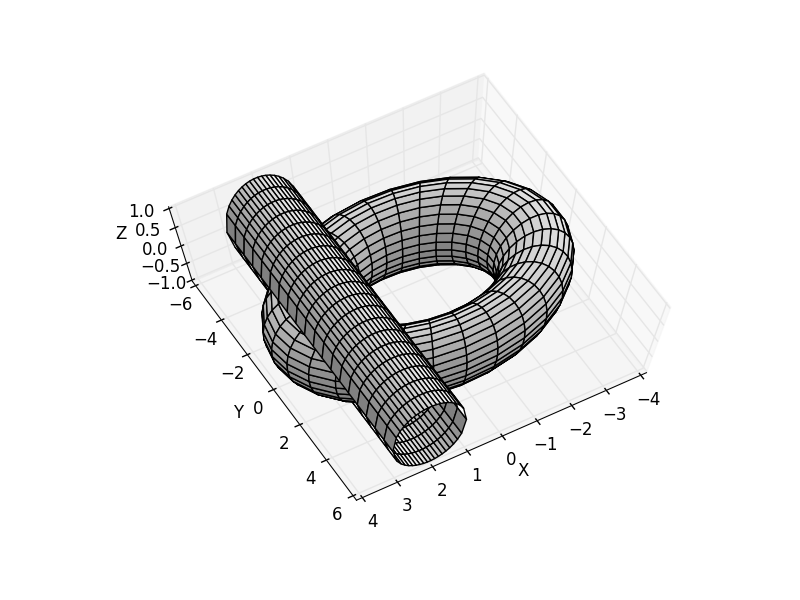
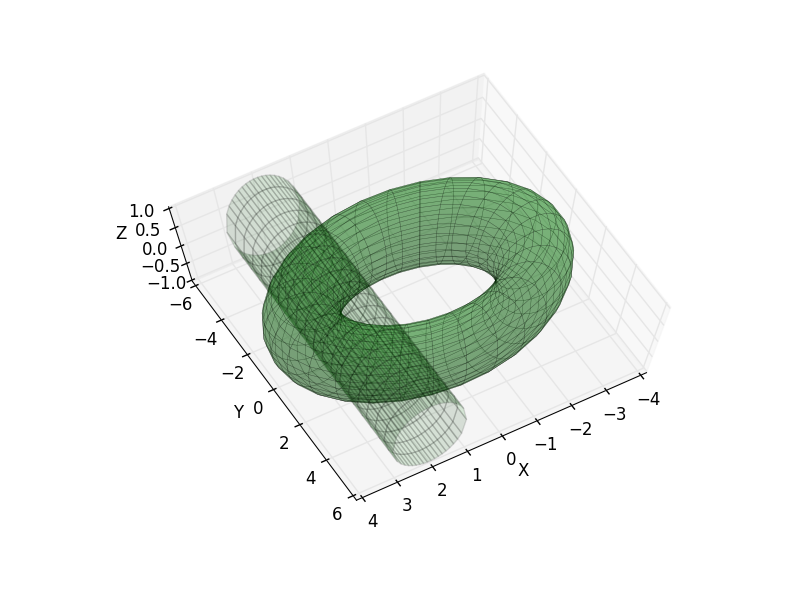
se hacen transparentes las superficies del toro y cilindo, volumen.py pasa pep8

Changed region(s): [[0.2812, 0.27, 0.7188, 0.78]]

diff --git a/volumen.py b/volumen.py
@@ -19,7 +19,8 @@ Z = r * np.sin(phi)
 fig = plt.figure(1)
 fig.clf()
 ax = fig.add_subplot(111, projection='3d')
-ax.plot_surface(X, Y, Z, color='w', rstride=1, cstride=1)
+ax.plot_surface(X, Y, Z, color='g', rstride=1, cstride=1,
+                alpha=0.3, linewidth=0.3)
 
 # segundo plot, cilindro
 x = np.linspace(1, 3, 20)
@@ -29,8 +30,8 @@ Xc, Yc = np.meshgrid(xc, y)
 X = np.meshgrid(x)
 Zc = np.sqrt(1.0 - Xc**2.0)
 
-ax.plot_surface(X, Yc, -Zc, color='w', rstride=1, cstride=1)
-ax.plot_surface(X, Yc, Zc, color='w', rstride=1, cstride=1)
+ax.plot_surface(X, Yc, -Zc, color='g', rstride=1, cstride=1, alpha=0.13)
+ax.plot_surface(X, Yc, Zc, color='g', rstride=1, cstride=1, alpha=0.13)
 ax.set_xlabel("X")
 ax.set_ylabel("Y")
 ax.set_zlabel("Z")
